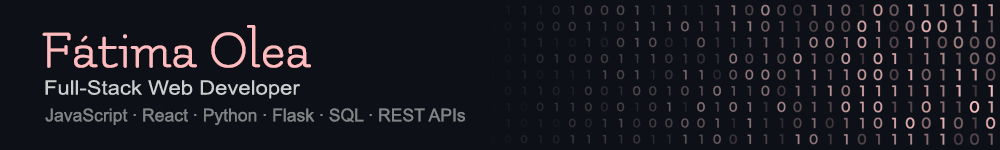
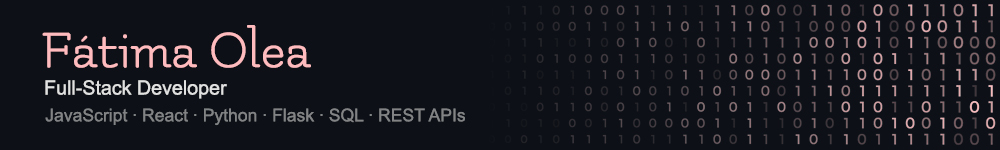
update info

Changed region(s): [[0.031, 0.5333, 0.31, 0.64]]

diff --git a/README.md b/README.md
@@ -4,7 +4,7 @@
   </a>
 </p>
 
-<p align="center"> Full-Stack web developer experienced in modern web technologies. With a multidisciplinary background in engineering, design, and international environments. Bringing a creative and problem-solving approach to scalable web applications and clean code practices. </p>
+<p align="center"> Full-Stack Developer with a background in Engineering, Design, and cross-functional collaboration. Passionate about building reliable applications, designing maintainable systems, and translating complex requirements into practical solutions. Interested in software engineering, product development, and scalable web applications.</p>
 
 <p align="center">
   <img src="https://img.shields.io/badge/JavaScript-1f2937?style=for-the-badge&logo=javascript&logoColor=f7df1e" alt="JavaScript" />
@@ -25,21 +25,23 @@
 <p align="center"> <a href="https://fatimaolea.dev" style="text-decoration: none;"> <img src="./globe-solid.svg" alt="Website" width="30" height="30" border="0" /> </a>&nbsp;&nbsp;&nbsp; <a href="https://www.linkedin.com/in/fatimaolea" style="text-decoration: none;"> <img src="./square-linkedin-brands-solid(1).svg" alt="LinkedIn" width="30" height="30" border="0" /> </a>
 </p>
 
+
 ## 🚀 About Me
 
-- 🎓 Background in Industrial Design & Product Development Engineering
-- 💻 Transitioning into full-stack software development
-- 🌍 Experience working in international and multidisciplinary environments
-- 🎨 Previously worked in branding, multimedia, technical coordination, and digital design
-- 🧠 Interested in UX/UI, product thinking, scalable architecture, and creative development workflows
+- 🎓 Industrial Design & Product Development Engineer
+- 💻 Full-Stack Developer focused on building maintainable web applications
+- 🧩 Strong interest in software architecture, system design, and product development
+- 🤝 Experienced collaborating across technical, business, and design teams
+- 🌍 Comfortable working in international and multidisciplinary environments
+- 📋 Skilled at translating complex requirements into structured implementation plans
 
 ## 🎓 Education
 
 | Degree / Program | Institution | Focus |
 |---|---|---|
-| Industrial Design & Product Development Engineering | Universidad Politécnica de Madrid (UPM) | Engineering, product development, design, problem-solving |
-| Digital Marketing, Advertising & Multimedia Design | NETT Digital School | Digital marketing, branding, multimedia, web & visual design |
-| Full-Stack Development with AI | 4Geeks Academy | React, Flask, APIs, PostgreSQL, full-stack applications |
+| Industrial Design & Product Development Engineering | Universidad Politécnica de Madrid (UPM) | Systems thinking, product development, problem-solving, structured decision-making |
+| Digital Marketing, Advertising & Multimedia Design | NETT Digital School | Communication, branding, user-centered thinking, digital products |
+| Full-Stack Development with AI | 4Geeks Academy | Full-stack applications, APIs, databases, software development workflows |
 
 ## 📍 Availability
 
@@ -50,12 +52,42 @@
 
 ## ⭐ Currently
 
-- Working on **BowlMix App**, a full-stack application focused on modular ingredient systems, smart bowl generation flows, and scalable UX architecture
+- Building and deploying full-stack applications with React, Flask, and PostgreSQL
+- Exploring software architecture, testing, and scalable application design
+- Contributing to collaborative development projects through planning, documentation, code reviews, and implementation
+- Applying AI-assisted development workflows to support planning, implementation, and learning
+- Seeking opportunities where I can contribute to product development while continuing to grow as a software engineer
 
-- Collaborating on **Quiz App**, an international collaborative project focused on full-stack development, structured app flows, feature planning, and team-based development workflows
+## 🚀 Featured Projects
 
-- Refactoring and improving **PetSpot**, enhancing architecture, user flows, scalability, and overall code quality
+### PetSpot
+Full-stack pet-friendly reservation platform featuring multi-role authentication, map-based place discovery, pet profiles, favorites, reservations, reviews, integrated payments, and real-time chat.
 
-- Continuing to strengthen my skills in React, Flask, REST APIs, PostgreSQL, and software architecture
+**Tech:** React, Flask, PostgreSQL, JWT, Google Maps, PayPal, Socket.IO, Cloudinary
+🔗 [Repository](https://github.com/fatimaov/petspot)
 
-- Open to job opportunities and collaborative projects
+### BowlMix *(In Progress)*
+Full-stack application for generating personalized bowls based on available ingredients, combining structured generation logic with future AI-assisted recommendations.
+
+**Tech:** React, Vite, Flask, PostgreSQL, SQLAlchemy, JWT, Bootstrap, Gemini AI
+🔗 [Repository](https://github.com/fatimaov/BowlMixApp)
+
+### Expense Tracker
+Lightweight full-stack expense tracking application built and deployed end-to-end while experimenting with AI-assisted development workflows and spec-driven implementation.
+
+**Tech:** React, Flask, PostgreSQL
+🔗 [Repository](https://github.com/fatimaov/expense-tracker)
+
+### Quiz App *(In Progress)*
+Collaborative React application focused on quiz flows, shared state management, and team-based development. I contribute to planning, architecture, documentation, code reviews, and implementation.
+
+**Tech:** React, Vite, GitHub Workflows, CSS Modules
+🔗 [Repository](https://github.com/dbedex-tech/Quiz-App)
+
+<br>
+
+<h3 align="center">
+  Thanks for stopping by! Feel free to 
+  <a href="https://www.linkedin.com/in/fatimaolea">connect</a>, 
+  say hello, or reach out if you'd like to collaborate on a project.
+</h3>
